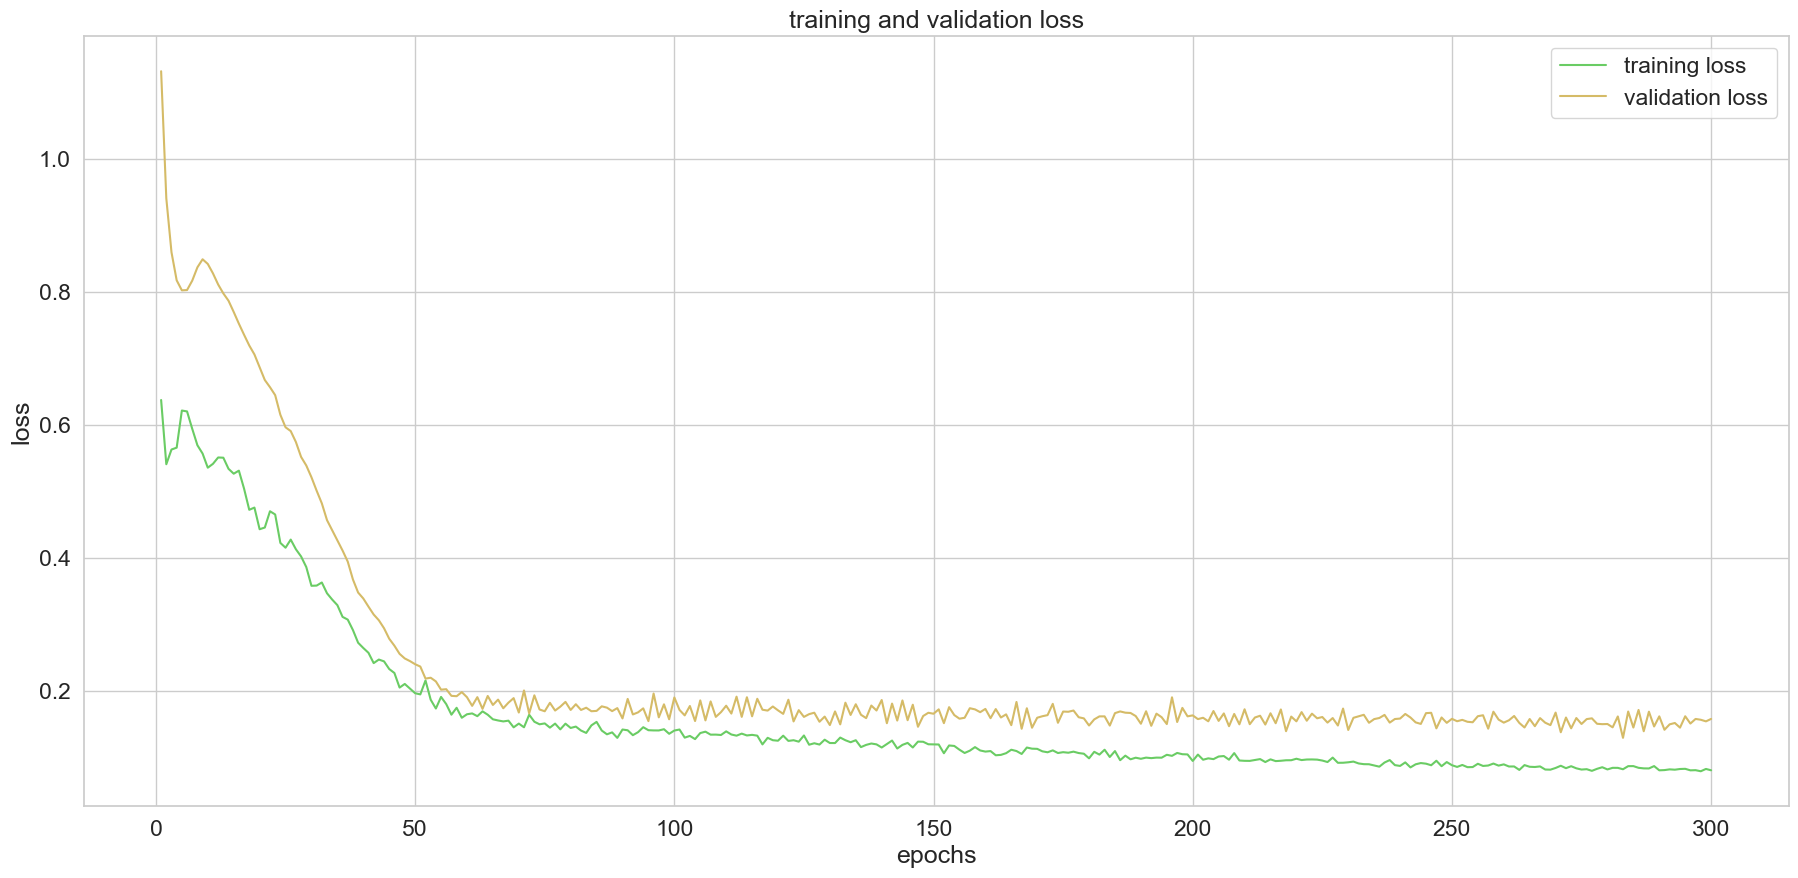
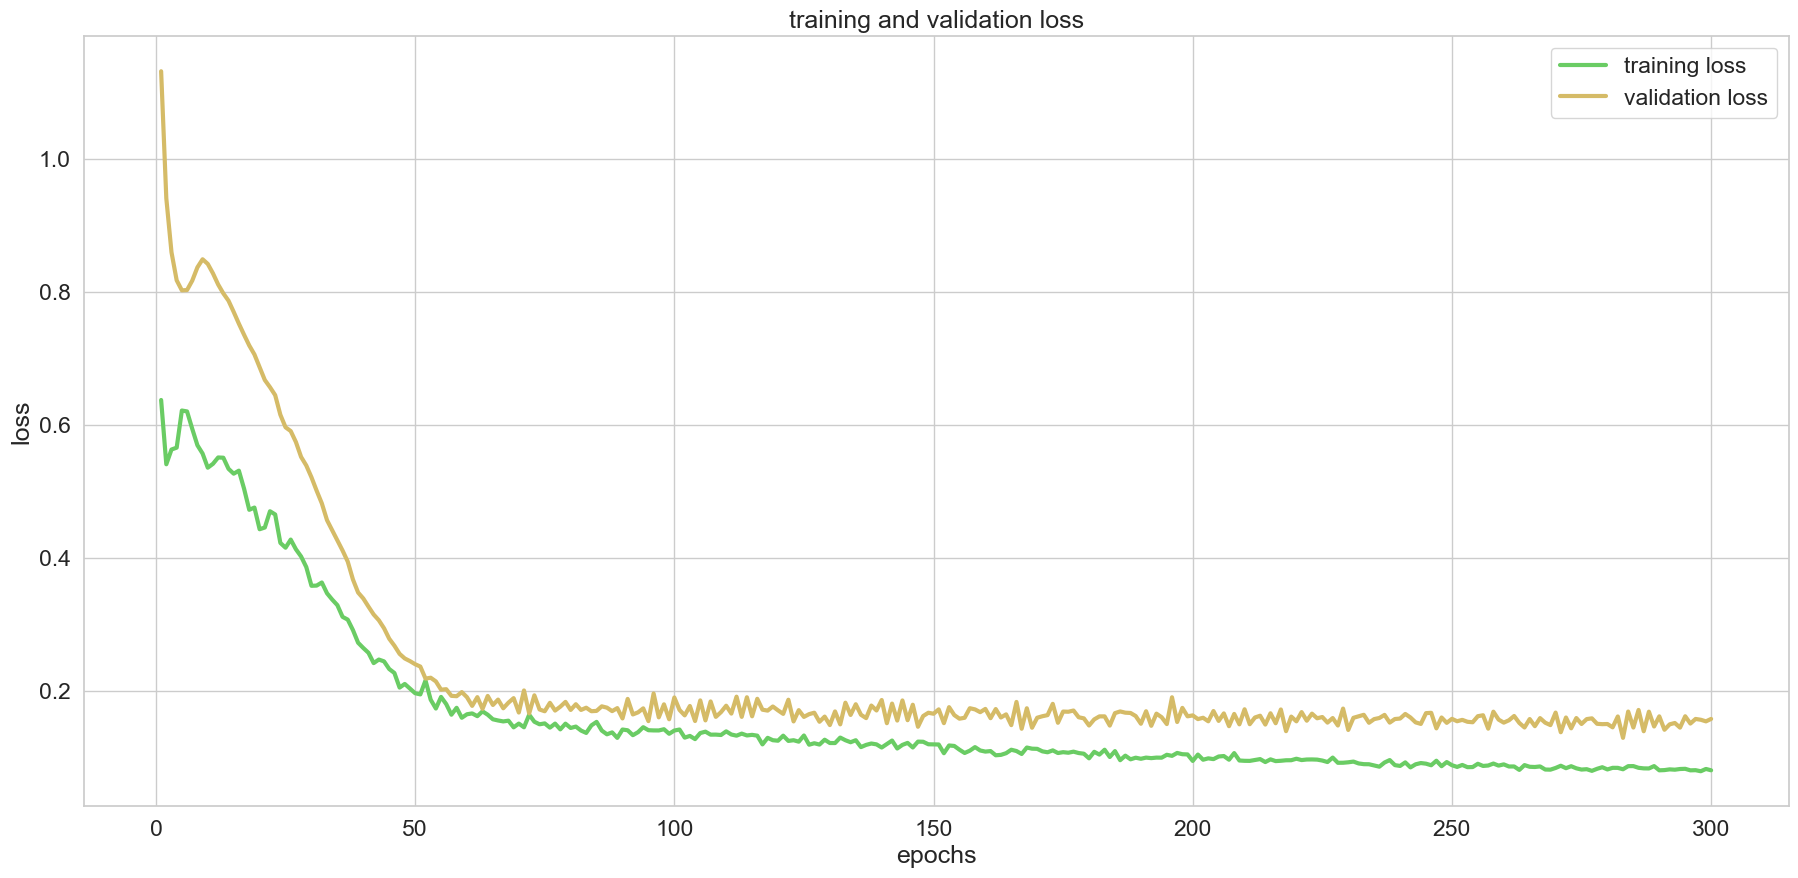
graphs regenerated

diff --git a/src/prediction_with_lstm_2.py b/src/prediction_with_lstm_2.py
@@ -212,8 +212,8 @@ plt.clf()
 loss = history.history['loss']
 val_loss = history.history['val_loss']
 epochs = range(1, len(loss) + 1)
-plt.plot(epochs, loss, 'g', label='training loss')
-plt.plot(epochs, val_loss, 'y', label='validation loss')
+plt.plot(epochs, loss, 'g', label='training loss', linewidth=3)
+plt.plot(epochs, val_loss, 'y', label='validation loss', linewidth=3)
 plt.title('training and validation loss')
 plt.xlabel('epochs')
 plt.ylabel('loss')
@@ -226,41 +226,27 @@ y_train_inv = total_energy_transformer.inverse_transform(y_train.reshape(1, -1))
 y_test_inv = total_energy_transformer.inverse_transform(y_test.reshape(1, -1))
 y_pred_inv = total_energy_transformer.inverse_transform(y_pred)
 
-
 print('MSE: ', metrics.mean_squared_error(y_test, y_pred))
 print('RMSE: ', np.sqrt(metrics.mean_squared_error(y_test, y_pred)))
 print('MAPE: ', metrics.mean_absolute_error(y_test, y_pred, multioutput='uniform_average'))
 
 plt.plot(np.arange(0, len(y_train)), y_train_inv.flatten(), 'g', label="history")
-plt.plot(np.arange(len(y_train), len(y_train) + len(y_test)), y_test_inv.flatten(), marker='.', label="true")
-plt.plot(np.arange(len(y_train), len(y_train) + len(y_test)), y_pred_inv.flatten(), 'r', label="prediction")
+plt.plot(np.arange(len(y_train), len(y_train) + len(y_test)), y_test_inv.flatten(), linewidth=3, marker='.',
+         markersize='12', label="true")
+plt.plot(np.arange(len(y_train), len(y_train) + len(y_test)), y_pred_inv.flatten(), 'r', linewidth=3, marker='.',
+         markersize='12', label="prediction")
 plt.ylabel('electricity consumption (MKWh)')
 plt.xlabel('time step')
 plt.legend()
-plt.savefig('../assets_lstm_2/lstm_test_vs_train_all_feat.png', bbox_inches='tight')
+# plt.savefig('../assets_lstm_2/lstm_test_vs_train_all_feat.png', bbox_inches='tight')
+plt.savefig('../assets_lstm_2/lstm_test_vs_train_imp_feat.png', bbox_inches='tight')
 plt.show()
 
-plt.plot(y_test_inv.flatten(), marker='.', label="true")
-plt.plot(y_pred_inv.flatten(), 'r', marker='.', label="prediction")
+plt.plot(y_test_inv.flatten(), marker='.', label="true", linewidth=3, markersize='12')
+plt.plot(y_pred_inv.flatten(), 'r', marker='.', label="prediction", linewidth=3, markersize='12')
 plt.ylabel('electricity Consumption (MKWh)')
 plt.xlabel('time step')
 plt.legend()
-plt.savefig('../assets_lstm_2/total_test_vs_train_all_feat.png', bbox_inches='tight')
+# plt.savefig('../assets_lstm_2/total_test_vs_train_all_feat.png', bbox_inches='tight')
+plt.savefig('../assets_lstm_2/total_test_vs_train_imp_feat.png', bbox_inches='tight')
 plt.show()
-
-# plt.plot(np.arange(0, len(y_train)), y_train_inv.flatten(), 'g', label="history")
-# plt.plot(np.arange(len(y_train), len(y_train) + len(y_test)), y_test_inv.flatten(), marker='.', label="true")
-# plt.plot(np.arange(len(y_train), len(y_train) + len(y_test)), y_pred_inv.flatten(), 'r', label="prediction")
-# plt.ylabel('electricity consumption (MKWh)')
-# plt.xlabel('time step')
-# plt.legend()
-# plt.savefig('../assets_lstm_2/lstm_test_vs_train_imp_feat.png', bbox_inches='tight')
-# plt.show()
-#
-# plt.plot(y_test_inv.flatten(), marker='.', label="true")
-# plt.plot(y_pred_inv.flatten(), 'r',  marker='.', label="prediction")
-# plt.ylabel('electricity Consumption (MKWh)')
-# plt.xlabel('time step')
-# plt.legend()
-# plt.savefig('../assets_lstm_2/total_test_vs_train_imp_feat.png', bbox_inches='tight')
-# plt.show()
